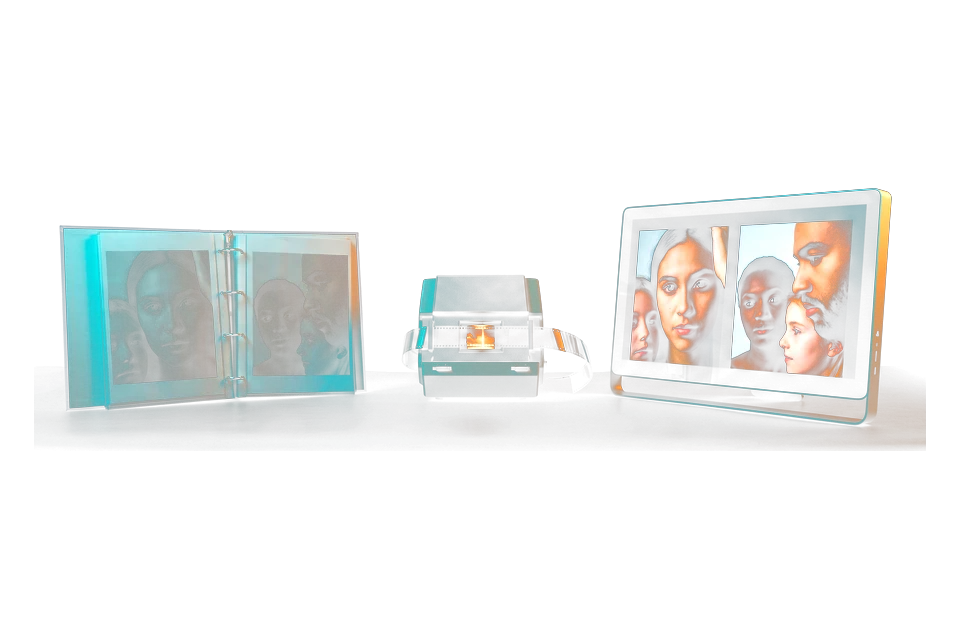
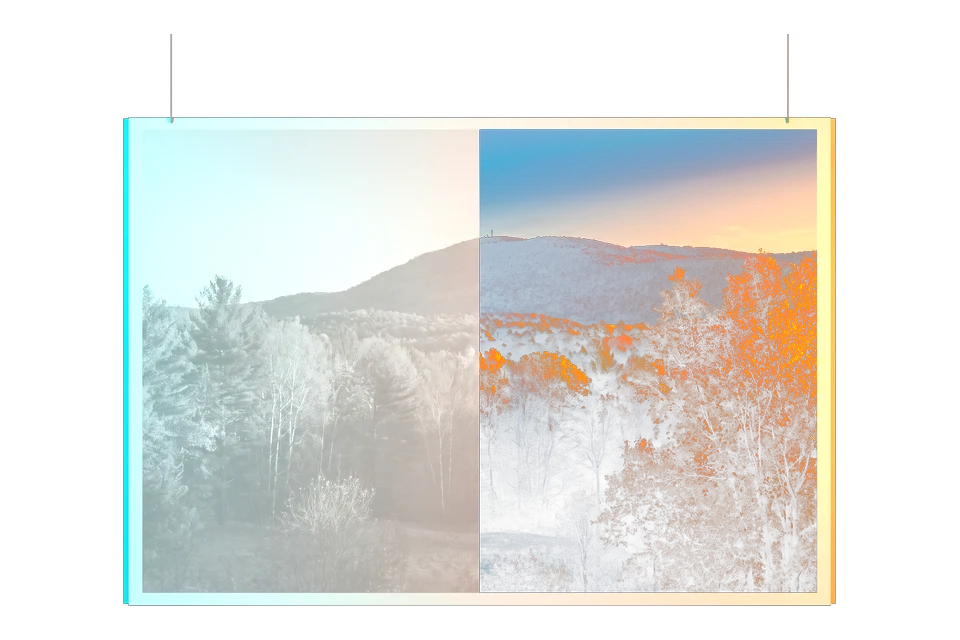
Archivia le due change finite, e stringi la copertina del colore a una foto sola
Due proposte erano complete da settimane — 87 e 32 lavori, zero aperti — e stavano
ancora fra quelle in corso: chi guarda la cartella vede cinque cantieri aperti e
tre sono due. Sono passate in archivio.

La copertina di «Sviluppo colore» diceva una cosa e ne mostrava un'altra: un libro
di ritratti, e alla seconda prova una stampante, un monitor e le boccette
d'inchiostro, con la meta' «a colori» grigia. Il soggetto chiedeva una fotografia
sola ma non vietava il resto, e il modello riempie sempre. Ora nomina cio' che non
deve esserci, e l'immagine e' quella giusta: una stampa sospesa sul nero, meta'
slavata e meta' a colori pieni.

diff --git a/scripts/copertine.ts b/scripts/copertine.ts
@@ -75,7 +75,7 @@ const STILE =
 const FOTOGRAFIE: Record<string, string> = {
   generate: "una strada di citta' al tramonto",
   prompt: "montagne innevate",
-  color: "un ritratto in primo piano",
+  color: "Una sola fotografia stampata sospesa sul nero, che occupa quasi tutta l'inquadratura, divisa esattamente a meta' da una linea verticale netta: la meta' SINISTRA in bianco e nero piatto e slavato, la meta' DESTRA a COLORI PIENI, CALDI E SATURI. Nell'immagine non c'e' nient'altro: niente stampante, niente schermo, niente monitor, niente boccette d'inchiostro, niente tavolo, niente mani, nessun secondo oggetto di alcun tipo",
   export: "architettura moderna di vetro",
   pipeline: "un molo sul mare",
   quality: "una strada di citta' di notte con le luci",
@@ -99,7 +99,7 @@ const FOTOGRAFIE: Record<string, string> = {
 const SOGGETTI: Record<string, string> = {
   generate: "A sinistra due cose che entrano: in alto un campo di testo scuro con dentro scritto \"a quiet street at sunset\" (l'unica scritta ammessa in tutta la serie, perche' e' il soggetto stesso), in basso una cartella aperta con dentro tre fotografie. A destra, piu' grande, quello che esce: una sola fotografia incorniciata di una strada al tramonto",
   prompt: "A sinistra tre cursori su un pannello scuro. A destra la stessa fotografia due volte, una sopra l'altra: quella in alto piatta e slavata, quella in basso contrastata e viva",
-  color: "Una sola fotografia di paesaggio, grande, divisa a meta' da una linea verticale netta: la meta' sinistra piatta e desaturata, la meta' destra sviluppata con colore e contrasto pieni",
+  color: "UNA SOLA fotografia stampata, grande e al centro, e nient'altro nell'immagine: e' divisa esattamente a meta' da una linea verticale netta, la meta' sinistra grigia e slavata, la meta' destra a colori pieni e contrastata. Nessun libro, nessun secondo oggetto, nessuno schermo",
   export: "A sinistra tre fotografie stampate in fila che entrano. A destra una cartella aperta che le riceve",
   pipeline: "La stessa fotografia tre volte, in fila da sinistra a destra: grigia e piatta, poi sviluppata, poi finita e incorniciata. Nessuna etichetta sotto: la differenza si vede nelle tre immagini",
   quality: "A sinistra una fotografia grande. A destra una lente d'ingrandimento che ne ingrandisce un angolo, e dentro la lente si vede che quel punto e' mosso e sfocato",

diff --git a/scripts/relight_identity.py b/scripts/relight_identity.py
@@ -1,0 +1,126 @@
+#!/usr/bin/env python3
+"""
+Rimette la luce DALL'ALTO nelle foto identita', prima che diventino un render.
+
+PERCHE' ESISTE, e perche' solo adesso. Per tredici tiri ho provato a ribaltare
+la direzione della luce dal prompt: descrivendola, facendone il reverse dalla
+reference, entrando dalla reference come materia, e perfino con `generate`
+senza nessuna foto in ingresso. Tutti falliti, e l'ultimo ha dimostrato la
+causa: anche SENZA sorgente la luce resta dal basso, quindi non la eredita
+l'edit — la portano le FOTO IDENTITA' allegate, che sono illuminate dal basso
+(-3,8 e -11,8 sull'asse alto-basso).
+
+E il 13/09 e' stato misurato che gli allegati trasferiscono davvero, purche' il
+prompt nomini cio' che portano: tingendo di ciano le foto identita' E
+dichiarandolo nel prompt, la percentuale di viso ciano e' passata da 2,0% a
+24,0% (ref 26,7%). Stessa strada, altra proprieta': se il colore si trasferisce
+dagli allegati, la DIREZIONE dovrebbe trasferirsi allo stesso modo.
+
+COSA FA. Applica una rampa di luminanza sul canale L (a* e b* intatti: non e'
+un viraggio, e' una luce), piu' chiara in alto e appena spostata di lato, e
+cerca il guadagno che porta il viso ai valori della reference:
+
+    alto-basso  +19,8      quanto la fronte e' piu' chiara del mento
+    sx-dx        -4,1      quasi niente: la reference e' FRONTALE-alta
+
+IL SECONDO NUMERO NON E' UN DETTAGLIO. L'utente su v128: "sembra un faretto
+dal lato". Misurato, il rapporto laterale/verticale:
+
+    reference   0,21      v113  0,36      v128  0,61
+
+cioe' inseguendo l'asse verticale avevo lasciato peggiorare quello laterale,
+fino a tre volte la reference. Per questo qui il bersaglio e' il VETTORE, non
+una delle sue due componenti: un guadagno che sistema l'alto-basso e sballa il
+laterale non passa.
+
+USO
+    python3 scripts/relight_identity.py in.jpg out.png [--alto 19.8] [--lat -4.1]
+"""
+from __future__ import annotations
+
+import json
+import subprocess
+import sys
+from pathlib import Path
+
+import numpy as np
+from PIL import Image, ImageOps
+from skimage.color import lab2rgb, rgb2lab
+
+MOONDREAM = "/Users/zorahrel/bin/moondream"
+
+
+def riquadro_viso(path: Path):
+    """Il riquadro del viso in coordinate 0-1, dal rilevatore."""
+    out = subprocess.run(
+        [MOONDREAM, str(path), "--detect", "face"],
+        capture_output=True, text=True, timeout=180,
+    ).stdout
+    try:
+        b = json.loads(out)["objects"][0]
+    except Exception:
+        return None
+    return b["x_min"], b["x_max"], b["y_min"], b["y_max"]
+
+
+def assi(L: np.ndarray) -> tuple[float, float]:
+    """alto-basso e sx-dx di un ritaglio di viso, come key_direction.py."""
+    h, w = L.shape
+    alto = float(L[: h // 3].mean() - L[2 * h // 3:].mean())
+    sx = float(L[:, : w // 3].mean() - L[:, 2 * w // 3:].mean())
+    return alto, sx
+
+
+def main() -> int:
+    if len(sys.argv) < 3:
+        print(__doc__)
+        return 2
+    src, dst = Path(sys.argv[1]), Path(sys.argv[2])
+    bersaglio_alto = float(sys.argv[sys.argv.index("--alto") + 1]) if "--alto" in sys.argv else 19.8
+    bersaglio_lat = float(sys.argv[sys.argv.index("--lat") + 1]) if "--lat" in sys.argv else -4.1
+
+    box = riquadro_viso(src)
+    if box is None:
+        print("viso non trovato")
+        return 1
+    x0, x1, y0, y1 = box
+
+    im = ImageOps.exif_transpose(Image.open(src).convert("RGB"))
+    w, h = im.size
+    lab = rgb2lab(np.asarray(im, float) / 255)
+
+    # Coordinate normalizzate RISPETTO AL VISO, non all'immagine: la rampa deve
+    # essere ripida quanto basta sul viso, e il viso puo' occupare un decimo
+    # dell'inquadratura o meta'. Fuori dal riquadro la rampa continua, cosi' il
+    # collo e le spalle restano coerenti invece di avere uno scalino.
+    yy = (np.arange(h)[:, None] / h - (y0 + y1) / 2) / max(y1 - y0, 1e-6)
+    xx = (np.arange(w)[None, :] / w - (x0 + x1) / 2) / max(x1 - x0, 1e-6)
+
+    def applica(kv: float, kh: float) -> np.ndarray:
+        out = lab.copy()
+        # -yy: sopra il centro del viso yy e' negativo, e li' si deve schiarire.
+        out[..., 0] = np.clip(lab[..., 0] + kv * (-yy) + kh * (-xx), 0, 100)
+        return out
+
+    def misura(l: np.ndarray) -> tuple[float, float]:
+        crop = l[int(y0 * h): int(y1 * h), int(x0 * w): int(x1 * w), 0]
+        return assi(crop)
+
+    a0, s0 = misura(lab)
+    # I due guadagni sono indipendenti (uno agisce su y, l'altro su x) e la
+    # risposta e' lineare: due sonde bastano a trovare la pendenza, senza
+    # cercare a tentoni.
+    a1, _ = misura(applica(10.0, 0.0))
+    _, s1 = misura(applica(0.0, 10.0))
+    kv = 10.0 * (bersaglio_alto - a0) / max(a1 - a0, 1e-6)
+    kh = 10.0 * (bersaglio_lat - s0) / max(s1 - s0, 1e-6)
+
+    fin = applica(kv, kh)
+    af, sf = misura(fin)
+    Image.fromarray((np.clip(lab2rgb(fin), 0, 1) * 255).astype(np.uint8)).save(dst)
+    print(f"{src.name:36} alto-basso {a0:+6.1f} -> {af:+6.1f}   sx-dx {s0:+5.1f} -> {sf:+5.1f}")
+    return 0
+
+
+if __name__ == "__main__":
+    raise SystemExit(main())
